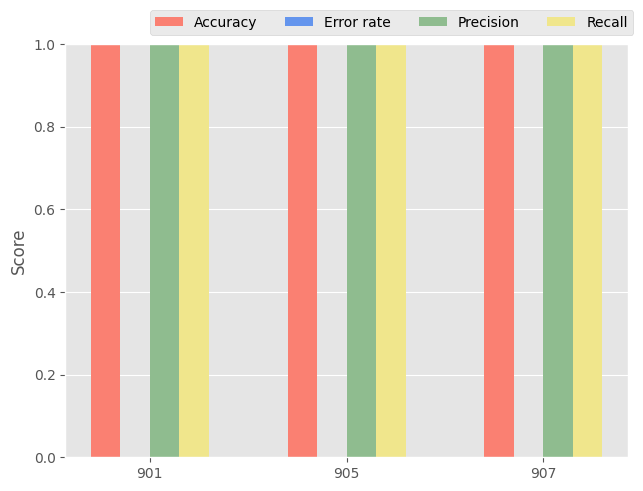
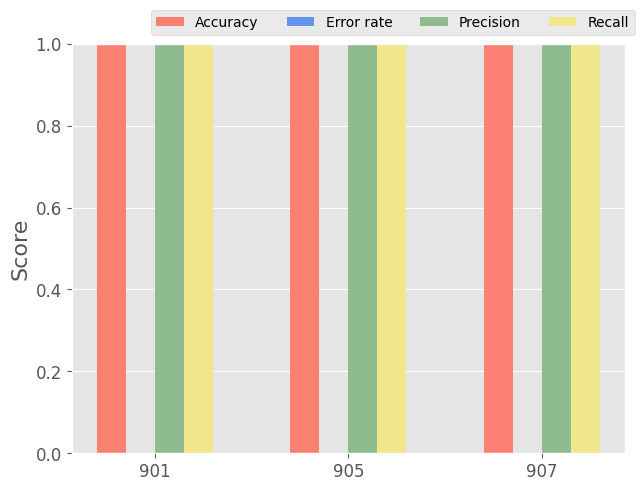
Increase size metrics

diff --git a/plots/plots_metrics_bars.py b/plots/plots_metrics_bars.py
@@ -31,10 +31,14 @@ for attribute, metric, color in zip(metrics.keys(), metrics.values(), colors):
     multiplier += 1
 
 # Add some text for labels, title and custom x-axis tick labels, etc.
-ax.set_ylabel('Score')
+ax.set_ylabel('Score', fontsize=16)
 ax.set_xticks(x + width * 1.5, stations)
 ax.legend(loc='upper center', bbox_to_anchor=(0.58, 1.1), ncol=4)
 ax.set_ylim(0, 1)
+
+# Change the fontsize of the ticks
+ax.tick_params(axis='x', labelsize=12)
+ax.tick_params(axis='y', labelsize=12)
 
 plt.savefig('plots/metrics_bars.png', bbox_inches='tight')
 
